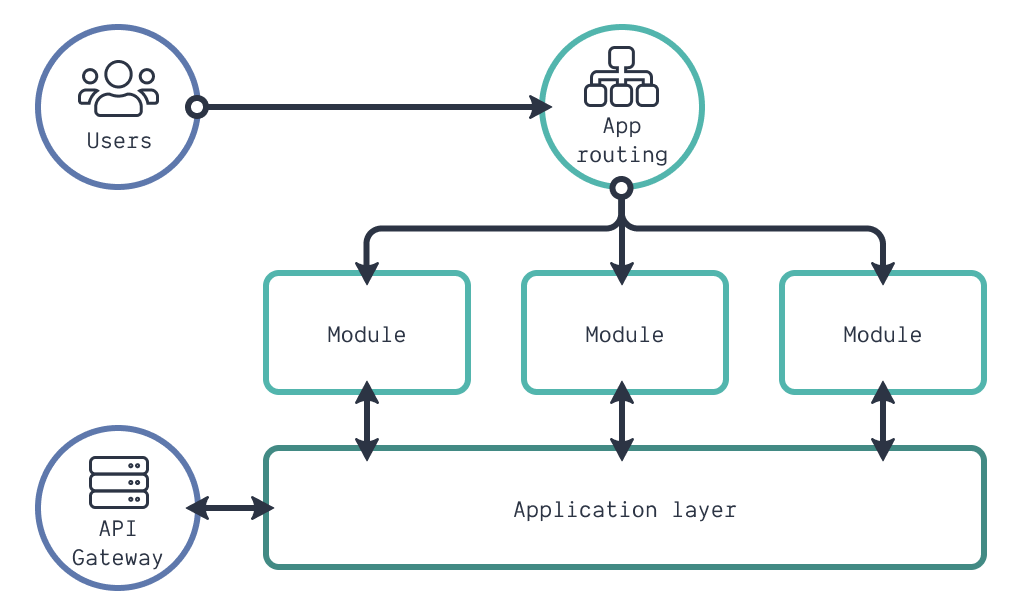
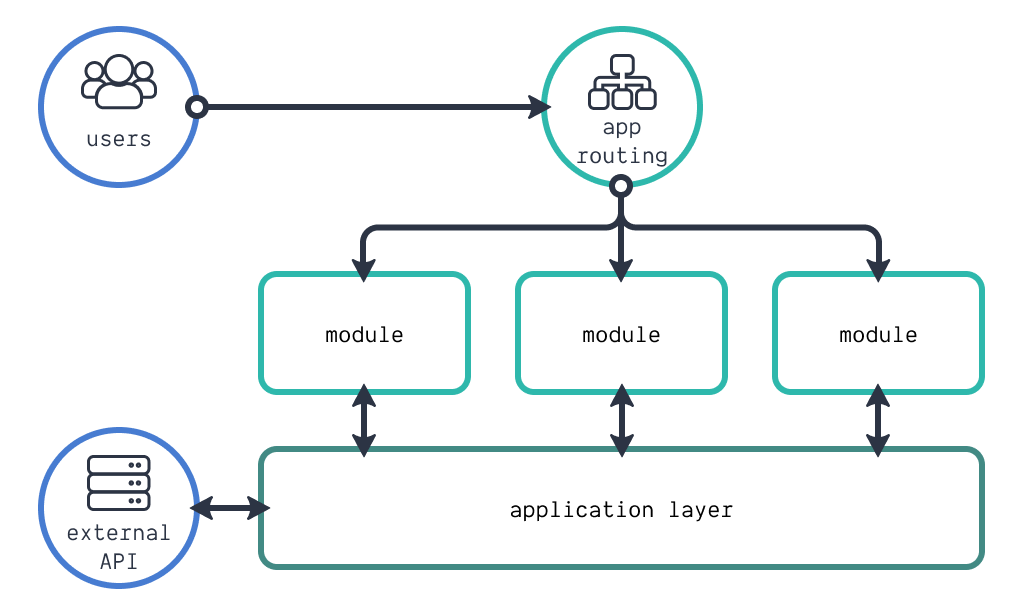
new blog post

diff --git a/src/styles/vars.scss b/src/styles/vars.scss
@@ -9,8 +9,8 @@
   --gray-500: #2c3444;
   --gray-600: #1e212e;
 
-  --green-200: #52b5ad;
-  --blue-200: #5e78ac;
+  --green-200: #2eb8ac;
+  --blue-200: #477cd1;
 
   --sans-serif: proxima-nova, system-ui, -apple-system, BlinkMacSystemFont,
     'Segoe UI', 'Roboto', 'Helvetica Neue', 'Arial', sans-serif;

diff --git a/src/styles/theme.scss b/src/styles/theme.scss
@@ -2,7 +2,7 @@ body {
   --footer-icon-stroke: var(--gray-100);
   --toggle-bg: var(--gray-400);
 
-  --header-icon-fill: var(--gray-200);
+  --header-icon-fill: var(--gray-300);
   --header-icon-stroke: var(--gray-100);
 
   --selection-bg: var(--green-200);

diff --git a/src/pages/blog/how-to-keep-motivated-with-a-side-project.md b/src/pages/blog/how-to-keep-motivated-with-a-side-project.md
@@ -1,0 +1,68 @@
+---
+templateKey: blog-post
+title: How did I find my motivation to get my side projects going?
+date: 2019-08-30T00:00:00.000Z
+featuredImage: detailed-architecture.png
+description: >-
+  Balancing side projects next to a full-time job is hard. Very hard. We often have big plans and so little time to spend. I could finally find a good flow in which I can combine different interests of mine. My main goal? To keep learning new and interesting things.
+tags:
+  - writing
+---
+
+I am doing web development for over 10 years. It all started with a free university license of Photoshop that got me into web design. I came to realize that if I wanted my designs coming to live on the web, I had to learn HTML and CSS to make it happen. Photoshop and some web development became a hobby of mine. Around the same time, I found another hobby: writing.
+
+I always was, and still am, a big fan of games. In 2008 someone approached me to be a writer for a small website that was starting known as [PlayWatchRead](https://www.playwatchread.nl/). Within no time, I also became involved in the design and development of the website which I kept doing until the tenth anniversary of the website in 2018.
+
+Ever since I tried to find a balance between my hobbies to start something. For years I had an on-off relationship with my WordPress website, which was never shipped. Only recently I could put my website live and start using it. Okay, I have to admit; it was on a back burner for a few years. But over the years, I had a hard time maintaining my motivation to deliver the final product. So how did I find my motivation and kept it the last time?
+
+## Start small
+
+![Motivational process](/img/motivation.png 'Motivational process')
+
+Balancing your time for side-projects or hobbies is very difficult. It does not matter if it's a painting, website or podcast. The bigger your initial scope is, the bigger it might fail. Nothing feels worse than failing with something you love.
+
+In all my attempts at setting up a website, I had many goals. I wanted to show the world what I could do, one part should be a blog, and finally, I wanted almost full freedom in styling. Every time I started with WordPress, it failed. Why? Because both my goals were too big, and WordPress was too big to achieve some of my goals.
+
+Luckily for me, we live in a post-WordPress world for building websites. A static website is easy to set up these days is so much easier compared to a few years ago. But choosing the initial technical structure only solves half the problem. I had to reduce the scope, without losing sight of my goal.
+
+> Reduce your initial scope, without losing sight of your original goal
+
+When I followed my original website idea, it would take me days if not weeks to make. This would ensure that I would lose my motivation, _again_. So I asked myself, what would be a smallest result that could keep me motivated? I enjoy tinkering around in the website code and be able to write a blog post now and then. So why not start with a page that shows a list of blog posts, and a page that shows a single blog post?
+
+## Small iterations
+
+I now had my initial version of my website finally pushed live. It even had a first blog post! Now what? I had and still have so many ideas. Both for my website and posts, I can write. It's daunting to see the immense list of stuff I would like to write and incorporate. Especially because it was on two very different levels: writing and programming.
+
+To keep my motivation, I made a deal with myself. As my professional career revolves around programming, my priority would be writing. But, with every article I write, I will implement one idea for my website or something related to it. To give you some idea, these are some of my iterations.
+
+- On my second blog post, I implemented a dark theme for my website;
+
+- After that, I improved upon the SEO, which learned me some great new stuff;
+
+- Next was improvements on social media sharing (e.g. ability to set an image for sharing on Twitter);
+
+- In my last post, I created various components in Figma to create consistent diagrams. This learned me a lot about the constraint system in [Figma](https://www.figma.com/).
+
+![My diagram components in Figma](/img/diagram-design-system.png 'My diagram components in Figma')
+
+What? That last one has nothing to do with my website. It does not have to be a change on the website, as long as it impacts the website. So by changing my focus to Figma, I learned some new things that I can use.
+
+## Prioritize
+
+But what will be my next iterations? I try to prioritize my blog posts and improvements. There are two important aspects that have impact on prioritizing. First and most important: The stuff that I am most excited about is getting the highest priority. Second, I try to combine an improvement to my website with the next blog post I write.
+
+My website is growing in content and visitors. So I have two options in that regard already. I can make a 'pinned' article section to ensure that my favorite posts are always accessible. Another option is to create an 'about me' page, to provide more context about myself. It will be the first one, as this a higher technical challenge (although not a big challenge) to solve.
+
+> My priorities change, and they change often
+
+My priorities change, and they change often. As like many of you, I can get excited about completely something new whenever I read a new blog post of someone else. I use this peak excitement to boost my motivation. So my priorities have to change, and they change often. This is a good thing, as I guide my priorities based on my motivation. When you force work on yourself, even when it is something you like, you can lose motivation quicker.
+
+## Seek feedback on your work
+
+My priorities change not only because of other blog posts I read. Often I get inspiration for new posts and improvements to my website based on feedback. I share my work with my wife, my friends and my colleagues for initial feedback. But I share my work in different communities. Here I get my most important feedback.
+
+I started with the designs of my [logo](https://dribbble.com/shots/6709595-Personal-Brand-Logo-V2) and a [digital drawing](https://dribbble.com/shots/6815153-CSS-Owl-selector) on Dribbble. I share my writing on [The Practical Dev](https://dev.to). Especially for the latter, comments and discussions on my articles have inspired me to follow up on articles. Because of the constructive discussions, I have a high motivation to write those. This means that my priorities shift based on the comments of my readers!
+
+## What keeps you motivated?
+
+As you can read, there is a flow or process in how I could finally get my website started and keep my motivation going. How do you keep motivated about your hobbies and side projects? Let me know on [Twitter](https://twitter.com/kevtiq)!

diff --git a/src/pages/blog/welcome-to-kevtiq.md b/src/pages/blog/welcome-to-kevtiq.md
@@ -6,7 +6,7 @@ description: >-
   A welcome post from Kevin Pennekamp, to his personal blog: kevtiq.co. This
   post tells you what kind of posts you can expect on this website.
 tags:
-  - banter
+  - writing
 ---
 
 For years I have had the ambition to start my blog. Blogs are a great way to share knowledge with others. These can be facts, opinions, guidelines or lessons learns through failure and success. Although the ambition was there, I never really pulled through and finished a working blog website that I was actively using.

diff --git a/src/pages/blog/ux-design-process-for-engineers.md b/src/pages/blog/ux-design-process-for-engineers.md
@@ -1,6 +1,7 @@
 ---
 templateKey: blog-post
 title: The UX design process for engineers
+pinned: true
 date: 2019-07-05T00:00:00.000Z
 description: >-
   As a software engineer, it sometimes can be difficult to understand what UX designing is and where it fits in the process. Especially the difference between UX and UI can be difficult to understand. Some recent insights provided valuable information to visualize and explain the concept of UX.

diff --git a/src/pages/blog/scalable-front-end-architecture.md b/src/pages/blog/scalable-front-end-architecture.md
@@ -1,6 +1,7 @@
 ---
 templateKey: blog-post
 title: How to create a scalable and maintainable front-end architecture
+pinned: true
 date: 2019-08-26T00:00:00.000Z
 featuredImage: detailed-architecture.png
 description: >-

diff --git a/src/pages/blog/an-ode-to-the-css-owl-selector.md b/src/pages/blog/an-ode-to-the-css-owl-selector.md
@@ -1,6 +1,7 @@
 ---
 templateKey: blog-post
 title: An ode to the CSS owl selector
+pinned: true
 date: 2019-07-26T00:00:00.000Z
 featuredImage: owl-selector.png
 description: >-
